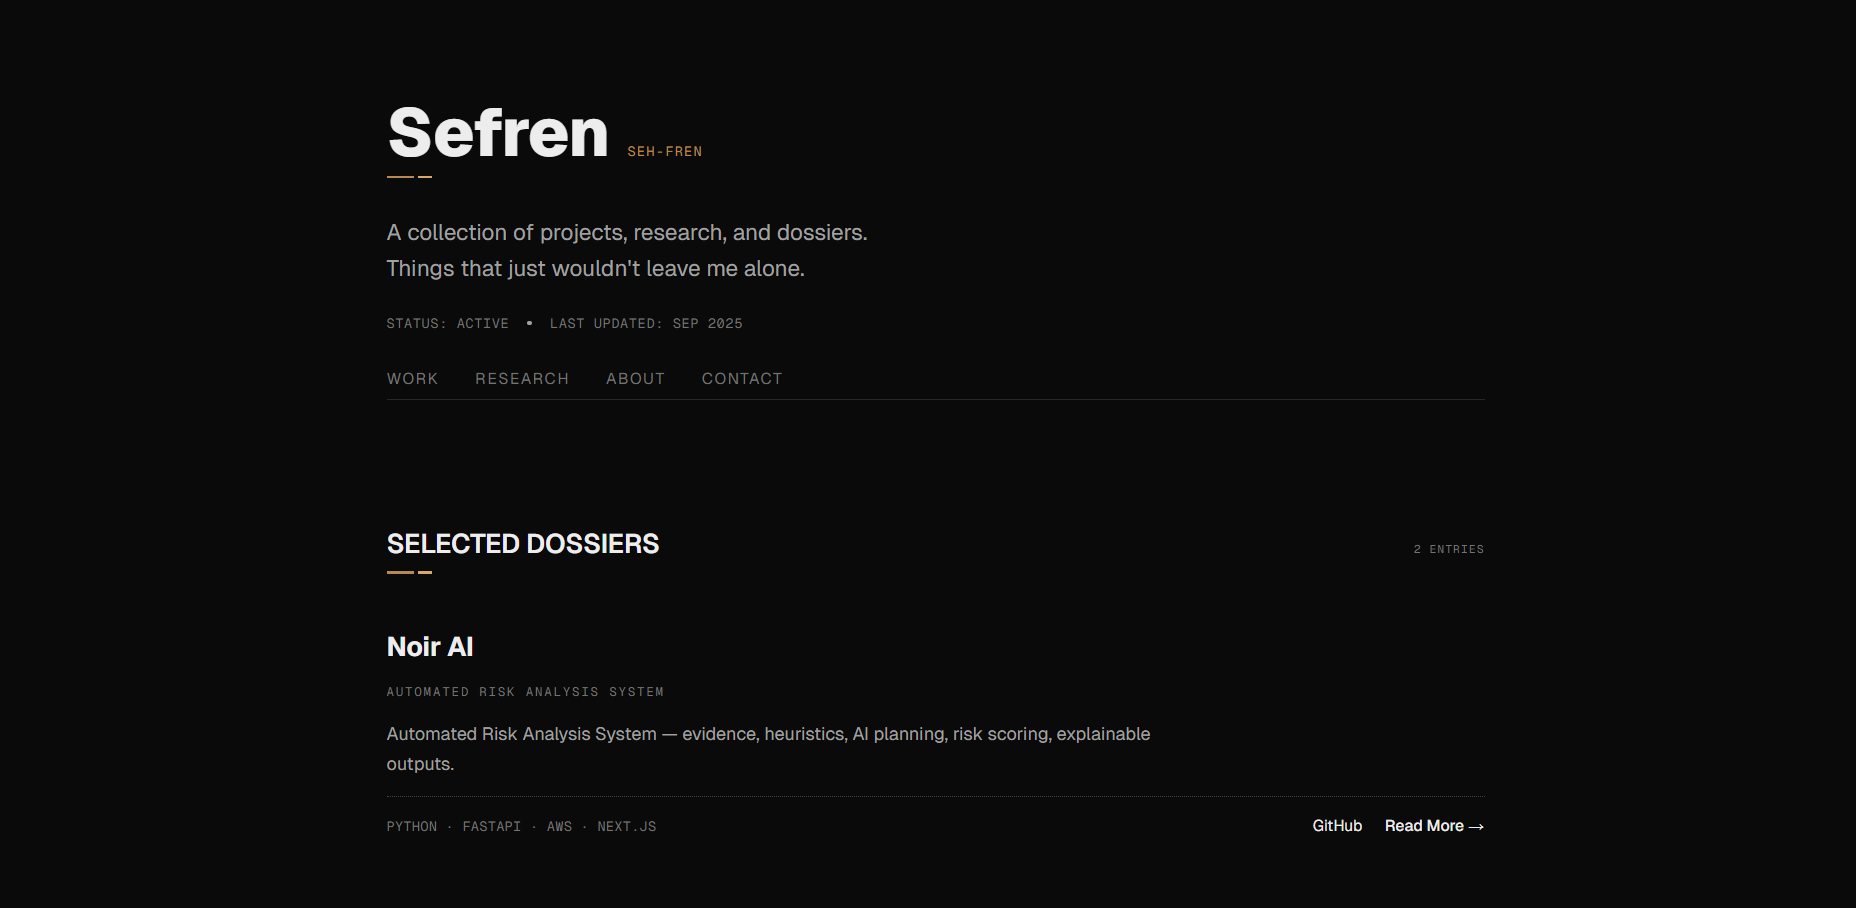
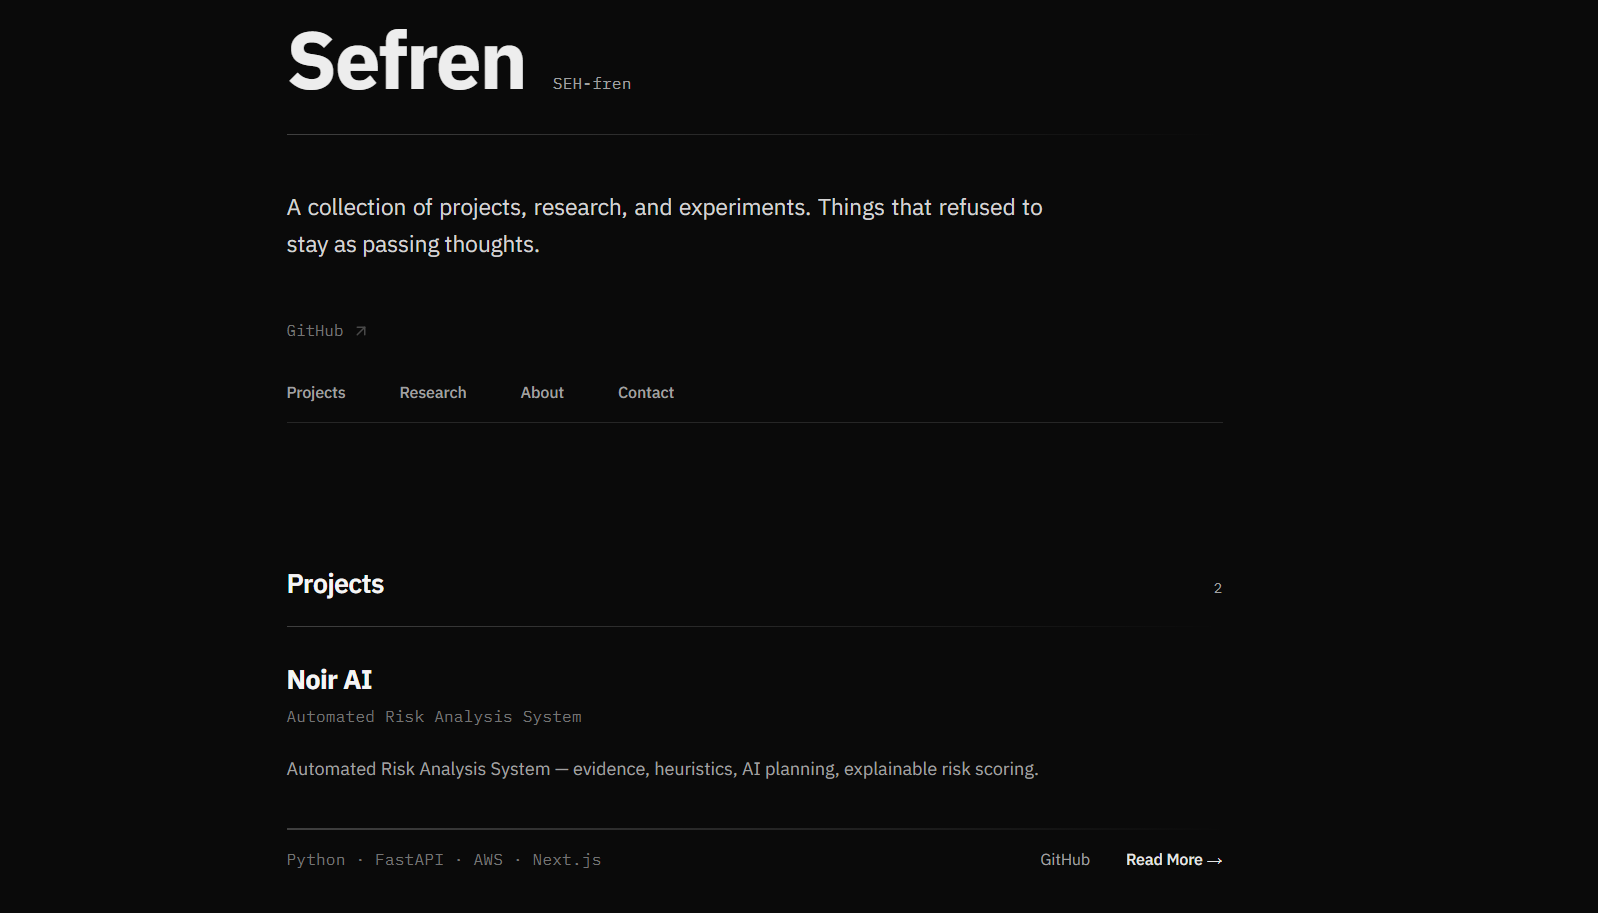
docs: update README; add new screenshot

diff --git a/README.md b/README.md
@@ -1,43 +1,41 @@
 # Sefren — Portfolio
 
-Personal portfolio built with **Next.js (App Router)**, **TailwindCSS**, and deployed on **Vercel**.
+A personal portfolio built with **Next.js (App Router)** and **TailwindCSS**, deployed on **Vercel**.  
+
+_Refined with AI ✦_
 
 ---
 
-## Features
-
-* Projects (dossiers)
-* Research
-* Project detail pages
-* About
-* Contact
-* Accent markers and typography-driven design
-
----
-
-## Screenshots
+## Showcase
 
 ![Portfolio Screenshot](./screenshot.png)
 
 ---
 
-## Getting Started
+## Features
+- Project showcase with detail pages
+- Research highlights
+- About + Contact
+- Clean, typography-focused design
 
-### Install dependencies
+---
 
+## Setup
+
+Install dependencies:
 ```bash
 npm install
-```
+````
 
-### Run the dev server
+Run development server:
 
 ```bash
 npm run dev
 ```
 
-Visit [http://localhost:3000](http://localhost:3000).
+Open [http://localhost:3000](http://localhost:3000).
 
-### Build for production
+Build for production:
 
 ```bash
 npm run build
@@ -48,7 +46,7 @@ npm run start
 
 ## Deployment
 
-Deploys easily on **Vercel**:
+Deploy on **Vercel**:
 
 ```bash
 vercel --prod
@@ -61,12 +59,14 @@ vercel --prod
 * Next.js (App Router)
 * TailwindCSS
 * Lucide Icons
-* Hosted on Vercel
+* Vercel
 
 ---
 
 ## License
 
-MIT License — feel free to use/adapt with attribution.
+MIT License — free to use/adapt with attribution.
 
-[View License](./LICENSE) · [My GitHub Profile](https://github.com/sefren)
+[License](./LICENSE) · [GitHub](https://github.com/sefren)
+
+
